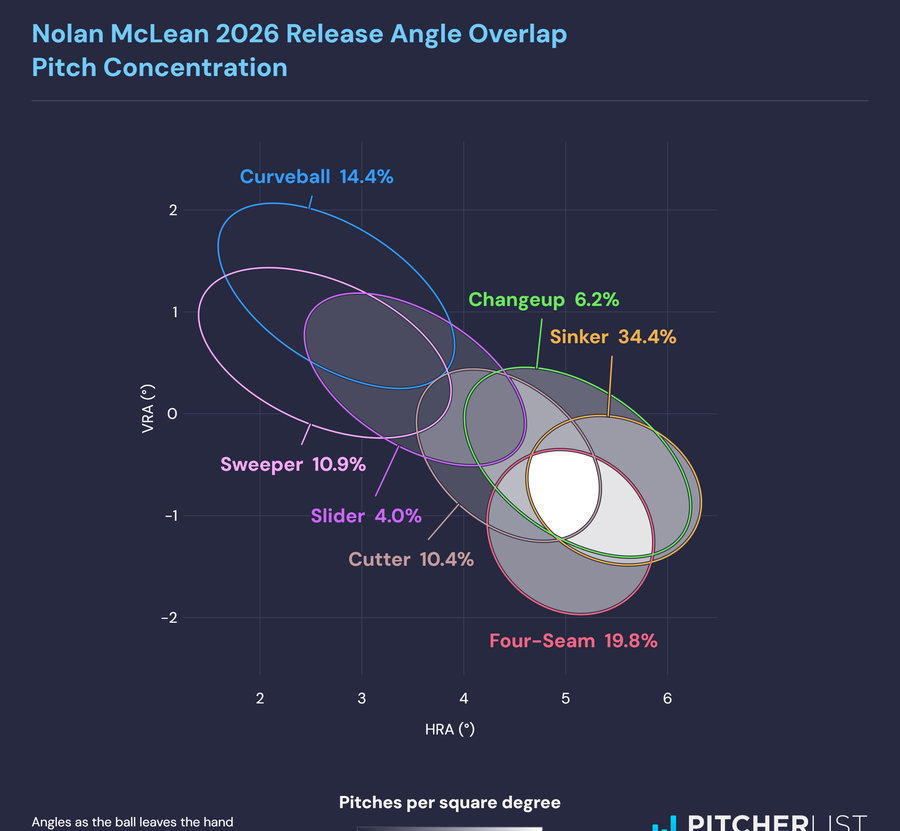
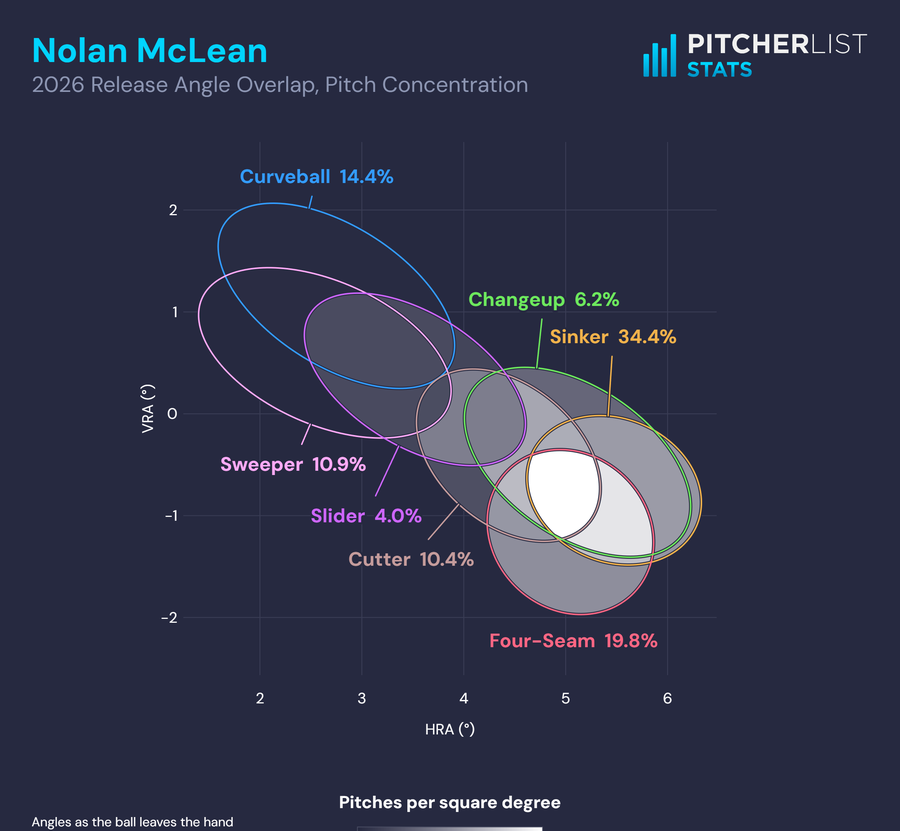
Release Angles: the Swing Profiles header, the wordmark top right
The pitcher's name in large teal type (#00D4FF, bold), what the chart shows in a
muted line under it (#8D96B3: season, view, date segment), and the Pitcher List
Stats wordmark top right, moved from the bottom row. Sizes and offsets are Swing
Profiles' (an 8 in figure) scaled to this 11.6 in one; a sub-header too long to
clear the wordmark is set smaller. The rule under the header is gone, as in Swing
Profiles. In the loop only the sub-header fades between views.

Changed region(s): [[0.0311, 0.0301, 0.6222, 0.1203], [0.7156, 0.9627, 0.9644, 1.0], [0.7156, 0.0301, 0.9644, 0.0903]]

diff --git a/release-angles/angles.js b/release-angles/angles.js
@@ -34,7 +34,9 @@ window.ReleaseAngles = (() => {
   const WORDMARK_URL = "../pitcher-cards/PitcherList_Stats_watermark_with_logo.webp";
   const WATERMARK_W = 0.25;
 
-  const SURFACE = "#262940", TITLE = "#72CBFD", RULE = "#4a4d63";
+  const SURFACE = "#262940", RULE = "#4a4d63";
+  // the header's colours, as Swing Profiles': the player in teal, the sub-header muted
+  const HEADER = "#00D4FF", SUBHEADER = "#8D96B3";
   const INK = "#ffffff", INK2 = INK, INK3 = INK;
   const RAMP_ENDS = ["#262940", "#ffffff"];
 
@@ -44,7 +46,6 @@ window.ReleaseAngles = (() => {
 
   const FIG_W = 11.6, FIG_ASPECT = 1.0;
   const L = 0.035, B = 0.052, W_FRAC = 0.93, TOP = 0.875;
-  const RULE_Y = 0.888;
   // The bottom row: the footer note, the scale and the word mark, each centred on this line
   // (a fraction of the figure's height) -- the Python sits the note and mark on FOOT_Y and
   // the scale up under the frame.
@@ -768,19 +769,28 @@ window.ReleaseAngles = (() => {
     T("HRA (°)", X((x0 + x1) / 2), Y(y0 - 0.060 * dh), { pt: 14, colour: INK2, ha: "center", va: "top" });
     T("VRA (°)", X(x0 - 0.048 * dw), Y((y0 + y1) / 2), { pt: 14, colour: INK2, ha: "center", va: "center", rotation: 90 });
 
-    // titles in the header band, the rule, the footer and the word mark
+    // The header, as Swing Profiles' figure has it: the pitcher in large teal type, what the
+    // chart shows in a muted line under it, and the word mark top right. Its sizes and offsets
+    // are that figure's (8 in wide) scaled to this one's width, so the two read the same at the
+    // same size on screen; a line too long to clear the word mark is set smaller.
+    const HS = FIG_W / 8, inch = (v) => v * HS * dpi;
+    const room = fx(L + W_FRAC - (mark ? WATERMARK_W : 0)) - fx(L) - (mark ? inch(0.2) : 0);
+    const fit = (s, size, weight) => {
+      ctx.font = fontSpec(size, weight, dpi);
+      const w = ctx.measureText(s).width;
+      return w > room ? (size * room) / w : size;
+    };
+    T(m.pitcher, fx(L), inch(0.25), { pt: fit(m.pitcher, 22 * HS, 700), weight: 700, colour: HEADER, va: "top" });
     TITLES.forEach(([head, line2], i) => {
       if (tw[i] <= 0) return;
-      const s = `${m.pitcher} ${m.year} ${head}\n` + [line2, m.span].filter(Boolean).join(", ");
-      T(s, fx(L), fy((1.0 + RULE_Y) / 2), { pt: 24, weight: SEMIBOLD, colour: TITLE, va: "center", alpha: tw[i] });
+      const s = [`${m.year} ${head}`, line2, m.span].filter(Boolean).join(", ");
+      T(s, fx(L), inch(0.625), { pt: fit(s, 14 * HS, 400), colour: SUBHEADER, va: "top", alpha: tw[i] });
     });
-    ctx.strokeStyle = RULE; ctx.lineWidth = pt(0.8);
-    ctx.beginPath(); ctx.moveTo(fx(L), fy(RULE_Y)); ctx.lineTo(fx(L + W_FRAC), fy(RULE_Y)); ctx.stroke();
-    T("Angles as the ball leaves the hand\nData: MLB StatsAPI", fx(L), fy(ROW_Y), { pt: 12, colour: INK3, va: "center", linespacing: 1.6 });
     if (mark) {
-      const h = (WATERMARK_W * FIG_W) / FIG_H / (mark.width / mark.height);
-      ctx.drawImage(mark, fx(L + W_FRAC - WATERMARK_W), fy(ROW_Y + h / 2), WATERMARK_W * W, h * H);
+      const w = WATERMARK_W * W, h = w * (mark.height / mark.width);
+      ctx.drawImage(mark, fx(L + W_FRAC) - w, inch(0.3), w, h);
     }
+    T("Angles as the ball leaves the hand\nData: MLB StatsAPI", fx(L), fy(ROW_Y), { pt: 12, colour: INK3, va: "center", linespacing: 1.6 });
     ctx.restore();
   }
 

diff --git a/release-angles/index.html b/release-angles/index.html
@@ -163,7 +163,7 @@ tr.clip td{color:var(--muted)}
     </details>
   </section>
 </main>
-<script src="angles.js?v=3"></script>
+<script src="angles.js?v=4"></script>
 <script type="module" src="app.js?v=3"></script>
 </body>
 </html>

diff --git a/README.md b/README.md
@@ -426,7 +426,7 @@ ported to the browser: the same figure geometry, depth / share / segment maps on
 1100-point grid, colour ramp (stepped through L\*a\*b\*), leaders, titles and four-state loop,
 and an overlap report whose per-type table and summary agree with the script's to every
 printed digit (checked on Paul Skenes' 2026; segment densities move in the first decimal, since
-the tighter frame puts the grid's cells closer together). It departs from the script in four
+the tighter frame puts the grid's cells closer together). It departs from the script in five
 places:
 
 - **Names never collide.** Candidate spots ring each ellipse at a ladder of distances and must
@@ -440,8 +440,10 @@ places:
   the frame is the square round the ellipses and the placed names plus a small margin. Text is
   sized in points while the frame sets the degree scale, so frame, name sizes and placement are
   iterated until the frame settles — on the first 20 orders, with all 120 run once at the end.
-- **One bottom row.** The footer note, the scale and the Pitcher List Stats wordmark share one
-  centre line, below the chart.
+- **The Swing Profiles header.** The pitcher's name in large teal type, what the chart shows
+  (season, view, date segment) in a muted line under it, and the Pitcher List Stats wordmark top
+  right — Swing Profiles' sizes and offsets, scaled to this figure's width. No rule under it.
+- **One bottom row.** The footer note and the scale share one centre line, below the chart.
 - **No spines.** The degree grid is the only frame.
 
 The GIF merges each hold's identical frames into one long frame, as Pillow does, so it has the
